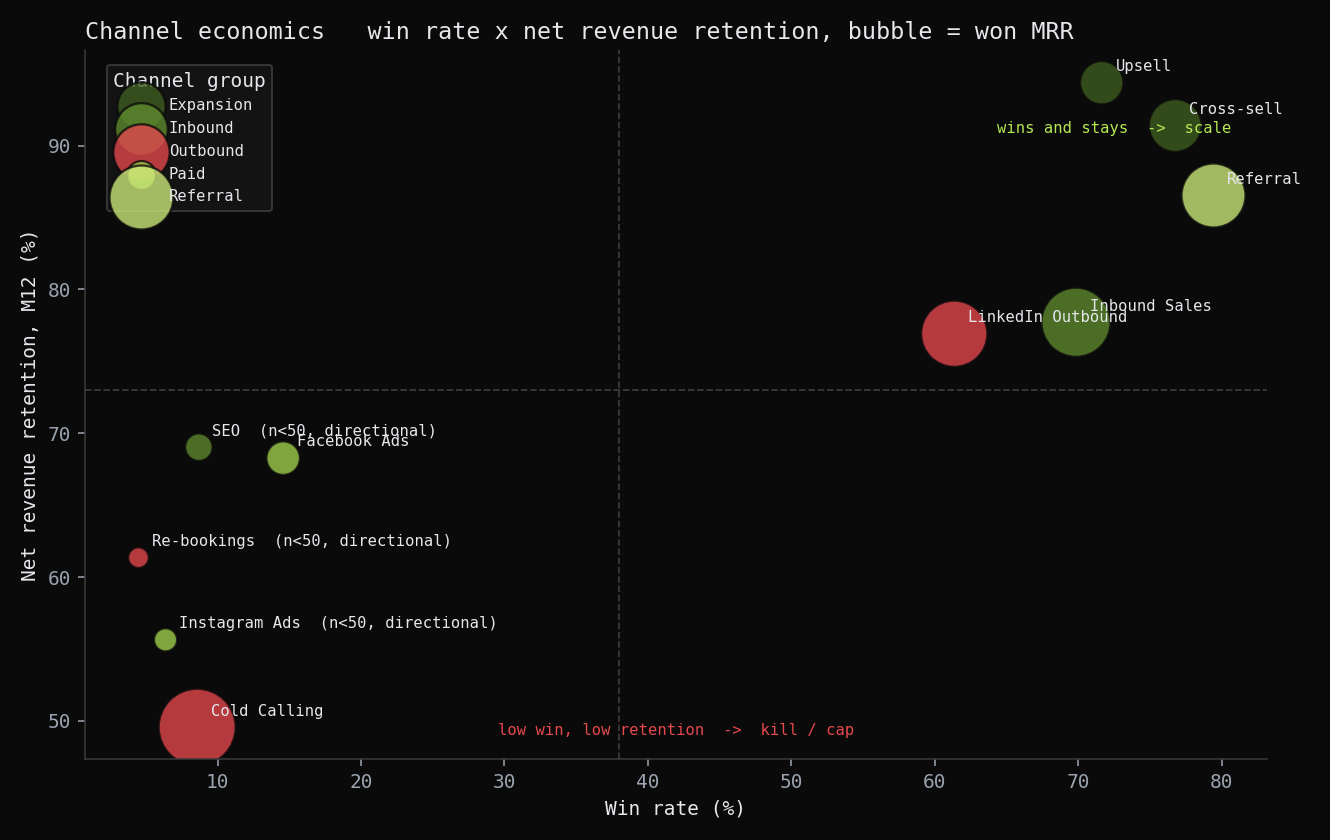
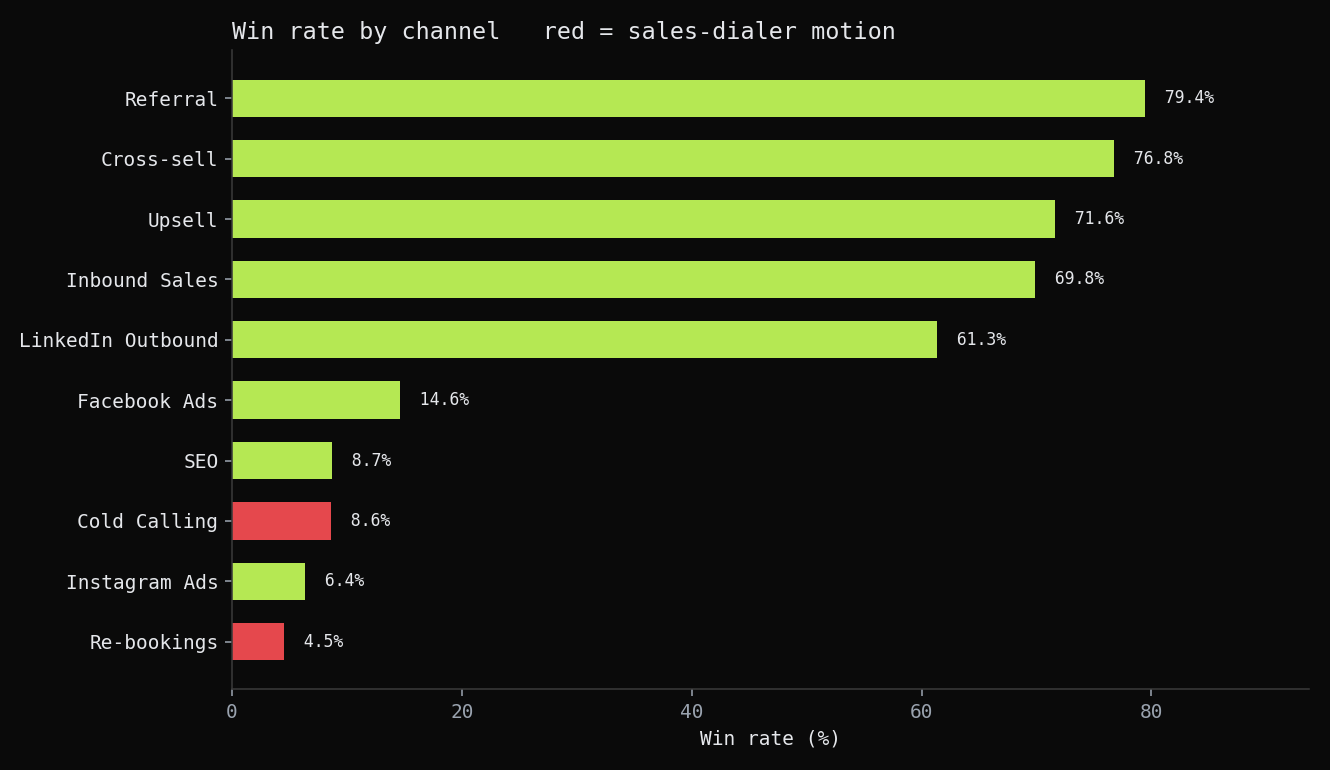
Channel Performance: all bar/line charts, longer + deeper article
Replaced the two scatter/bubble charts with ranked horizontal bars
(win rate, deal volume, net revenue retention by channel). Every
figure is now a bar or a line, dark site theme, dialer channels in
red. Article expanded to ~2,300 words with a per-finding walk-through
and the scorecard mechanics. Synthetic-generator properties are now
stated as designed-to-demonstrate-method, not observed results
(honesty review fix). Cover is the win-rate bar.

diff --git a/_projects/02-channel-performance.md b/_projects/02-channel-performance.md
@@ -12,80 +12,106 @@ github_url: https://github.com/rasmuskampmann1998/rasmus-kampmann-case-studies/t
 
 ## What this case study demonstrates
 
-A sales team ran ten acquisition channels and reported them as one blended number. The blend looked healthy. Underneath it the channels were not one thing: win rates from 4.5% to 79%, time-to-won from a week to a month, and post-sale retention from roughly 50% to 96%. The blend hid which channels earned their cost and which burned it.
+A sales team ran ten acquisition channels and reported them as one blended win rate. The blend looked healthy. Underneath it the channels were not one thing: win rates from 4.5% to 79%, time-to-won from a week to a month, and post-sale retention from roughly 50% to 96%. Averaging them hid which channels earned their cost and which burned it.
 
 This is a channel-level analysis with a post-sale axis most channel reporting skips. It asks two questions, not one: which channel wins, and whether the customers it wins stay. The figures here are synthetic, generated from a seeded model that reproduces the shape of a real Pipedrive engagement whose data cannot be published. The method is the point.
 
-Want the technical detail: the star schema, the scorecard rule, the Power BI model? See the [GitHub case study]({{ page.github_url }}).
+Want the schema, the scorecard rule, and the Power BI model: see the [GitHub case study]({{ page.github_url }}).
 
 ## Outcome first
 
-One number that reframes the whole mix: five warm channels were 21% of deals but 78% of the won revenue still active twelve months later, and they spent zero sales-dialer hours doing it.
+One number reframes the whole mix: five warm channels were 21% of deals but 78% of the won revenue still active twelve months later, and they spent zero sales-dialer hours getting it.
 
-The same analysis put cold calling, the single biggest channel, in the cap band: 60% of deals, an 8.6% win rate, 91% of all dialer hours, and about half its won customers gone within a year. The deliverable was one additive scorecard a revenue-operations lead can read in two minutes and rerun every quarter from the same tables.
+The same analysis put cold calling, the single biggest channel, in the cap band. It was 60% of all deals, won 8.6% of the time, consumed 91% of all sales-dialer hours, and kept about half its customers a year out. The deliverable was one additive scorecard a revenue-operations lead can read in two minutes and rerun every quarter from the same tables.
 
 ## Context
 
-A team selling into small businesses acquired customers through ten channels: cold calling, LinkedIn outbound, referral, inbound sales, SEO, two paid social channels, cross-sell, upsell, and a re-booking queue for prospects who cancelled a first meeting.
+A team selling into small businesses acquired customers through ten channels: cold calling, LinkedIn outbound, referral, inbound sales, SEO, two paid social channels, cross-sell, upsell, and a re-booking queue for prospects who cancelled a first meeting. Total: 7,300 deals, 1,585 of them won, $1.24M in won monthly recurring revenue.
 
-Capacity planning treated "the channel mix" as a single win rate. The scarce resource was sales-dialer time, and only two channels consumed it. Both of those were near the bottom on every quality measure, but blended reporting averaged that cost away so nobody could see it.
+Capacity planning treated "the channel mix" as a single blended win rate of 21.7%. That number was the problem. It was an average across ten channels that behaved nothing like each other, and it hid the only constraint that actually bound the team: sales-dialer time. Two channels consumed that resource. Both sat near the bottom on every quality measure, and the blend averaged the cost away so nobody could see it.
 
 ## The problem
 
-Most teams that run many channels judge them on win rate, blended. Two failures stack on top of each other.
+Most teams that run many channels judge them on win rate, blended. Two failures stack on top of each other, and the second one is the expensive one.
 
-A channel that wins deals which churn in ninety days is not a good channel. Win rate cannot see that. There was no post-sale view tied back to the channel that acquired the customer, so "good channel" meant "closes deals" and stopped there.
+The first failure is the average itself. A 21.7% blended win rate is the weighted mean of channels that close at 79% and channels that close at 4.5%. Acting on the average means under-investing in the channels that already work and protecting the ones that do not. The fix for that is simple: stop reporting the blend, report the channels.
 
-The cost side was a single shared resource. Sales-dialer hours sat almost entirely on the two channels that returned the least, and the blended report made that invisible. The question the analysis had to answer: across all ten channels, which produces the most won revenue fastest, keeps the customers it wins, and where is dialer time being spent that does not come back?
+The second failure is harder. A channel that wins deals which churn in ninety days is not a good channel, and win rate cannot see that. There was no post-sale view tied back to the channel that acquired the customer, so "good channel" meant "closes deals" and stopped at the contract signature. A channel could look strong on win rate and quietly lose most of that revenue within the year, and the existing reporting would never surface it.
+
+The cost side compounded both failures. Sales-dialer hours, the one finite resource, sat almost entirely on the two channels that returned the least, and the blended report made that invisible too.
+
+The question the analysis had to answer: across all ten channels, which produces the most won revenue fastest, keeps the customers it wins, and where is dialer time being spent that does not come back?
 
 ## The approach
 
-Channel is the unit of analysis, not the company and not the rep. Every deal is cut by the channel that acquired it, and every channel is scored on four things, because no single one is enough on its own.
+Channel is the unit of analysis, not the company and not the rep. Every deal is cut by the channel that acquired it, and every channel is scored on four things, because no single one of them is enough on its own.
 
 **Win rate** is the base rate. Necessary, not sufficient: a channel can win often and still lose money if those wins leave.
 
-**Dialer cost** is the scarce resource. The real efficiency question is won revenue returned per dialer hour, and it only matters for the two channels that spend the resource.
+**Dialer cost** is the scarce resource. The right efficiency question is won revenue returned per dialer hour, and it only matters for the two channels that spend the resource. Everything else returns revenue at zero dialer cost, which is itself the finding.
 
-**Time-to-won** is a cost in disguise. A channel that closes in a week frees capacity a channel that takes a month does not.
+**Time-to-won** is a cost in disguise. A channel that closes in a week frees a rep's capacity that a channel taking a month does not. Speed compounds: the faster channel can be worked more times in the same quarter.
 
-**Retention** is the post-sale axis: share of won customers still active at twelve months, and net revenue retention, both tied back to the acquiring channel. This is the half of the picture win rate cannot show, and it is what changed the verdict.
+**Retention** is the post-sale axis, and it is the one that changed the verdict. Share of won customers still active at twelve months, and net revenue retention, both tied back to the acquiring channel. This is the half of the picture win rate cannot show.
 
-These four collapse into one additive score, then into four action bands. The score is a rule, not a model, deliberately, so a non-technical operator can audit every point it assigns and rebuild it next quarter from the dimensional tables.
+These four collapse into one additive score, then into four action bands: scale, maintain, cap, kill. The score is a rule, not a model, deliberately. A model would be more precise and less useful here, because nobody on the revenue team could audit it or rebuild it next quarter. Every point the rule assigns is traceable to a number in the dimensional tables, and a verification step recomputes the whole thing from the data so the scorecard and the rule that produced it cannot drift apart.
 
-## The build
+## The findings
 
-**A star schema, channel-first.** One fact table for deals, one for acquisition touches, one for meetings, joined to seven dimensions, with channel as the primary axis. The deal fact carries the close outcome, the sales-dialer hours attributed to it, and a post-won lifecycle: whether the customer churned, how many months they stayed, and the revenue that left when they did. Single-direction relationships, one row per deal, no double counting from the meeting grain. It reproduces from a seeded generator with no private data.
+**Win rate splits the channels into two populations, and the biggest one is in the wrong half.**
 
-**A scorecard that reproduces its own bands.** Each channel scores on the four factors and lands in scale, maintain, cap, or kill. The rule is not asserted over the data; a verification step recomputes every channel's score and band straight from the tables, so the numbers in the deck and the rule that produced them cannot drift apart. The retention factor is a non-negative bonus by design: win rate and dialer cost already separate the channels, and retention should confirm that split rather than be able to flip a band on its own.
+![Win rate by channel]({{ '/assets/images/projects/channel-performance-winrate.png' | relative_url }})
+*Win rate per channel, sorted, sales-dialer channels in red. There is no gradient here, there is a cliff. Referral, cross-sell, upsell, inbound, and LinkedIn all clear 61%. Everything else is under 15%. Cold calling, the channel that books the most deals, sits at 8.6%, third from the bottom.*
 
-**A four-page Power BI model.** Twenty measures on the star schema. The retention measures read the post-won columns directly and never traverse an inactive relationship, which is a class of filter-context bug that file validation cannot catch. Every visual is a bar, a line on a genuinely ordered axis, a card, or a matrix. No chart that does not carry information.
+The win-rate chart is the case for abandoning the blend in one image. The channels do not sit on a smooth curve from good to bad. They form two clusters with nothing in between: five warm channels above 61%, five channels below 15%. A blended average of those two populations describes none of them. Cold calling at 8.6% is not "a bit below average", it is in the bottom cluster, and it is the largest channel the team runs.
 
-![Channel economics: win rate against net revenue retention]({{ '/assets/images/projects/channel-performance-economics.png' | relative_url }})
-*The whole argument in one chart. Win rate on the x-axis, net revenue retention on the y, bubble sized by won revenue. The warm channels cluster top-right: they win and they stay. Cold calling is the large red bubble bottom-left, real revenue but a low win rate and half of it gone within a year.*
+**Volume is concentrated exactly where win rate is weakest.**
 
-![Logo survival by channel group, months zero to twelve]({{ '/assets/images/projects/channel-performance-retention-curve.png' | relative_url }})
-*Do the wins stay? Share of won customers still active by month since the deal closed. Expansion holds near the top across twelve months. The outbound dialer line is the one that bleeds. The x-axis is months retained, a real ordered axis, which is why a line is honest here.*
+![Deal volume by channel]({{ '/assets/images/projects/channel-performance-volume.png' | relative_url }})
+*Deals created per channel. Cold calling is roughly ten times the next-biggest channel. The single bar that dominates the volume chart is the same channel sitting third from the bottom on win rate.*
 
-![Win rate against deal volume by channel]({{ '/assets/images/projects/channel-performance-winrate-volume.png' | relative_url }})
-*Win rate against deal volume, bubble sized by won revenue. The largest channel by volume sits near the bottom on win rate. The axis is linear, so cold calling's volume dominance is shown plainly rather than hidden behind a log scale.*
+Put the two bar charts next to each other and the structural problem is obvious. The channel with the most deals has nearly the worst win rate. The team's capacity was being spent in proportion to volume, and volume was inversely related to quality. This is the dilution trap: a high-volume, low-conversion channel makes the pipeline look busy and the blended number look stable while consuming the capacity that the high-conversion channels needed.
 
-## The outcome
+**Retention is a second, independent axis, and it punishes the same channels again.**
 
-The bands, with coverage recomputed from the data:
+![Net revenue retention by channel]({{ '/assets/images/projects/channel-performance-nrr.png' | relative_url }})
+*Net revenue retention at twelve months, per channel. Expansion and referral channels keep 87% to 94% of the revenue they win. Cold calling keeps 50%. The dialer channels are red, at the bottom, again.*
 
-- **Scale** (LinkedIn, referral, inbound, cross-sell, upsell): 21% of deals, 69% of won revenue, 78% of revenue that survived the first year, 83% retained at twelve months, zero dialer cost.
+This is the chart the original reporting could not produce. Win rate stops at the signature; this starts there. Cold calling wins less often and then loses half of what it does win within a year. Its 23.5% share of won revenue shrinks to 15.7% once churn is taken out. The warm channels are the mirror image: they win more often and the revenue stays. Win rate and retention rank the channels in nearly the same order. On a real dataset, two independent measures agreeing is what tells you the conclusion is not a single-metric artefact; in this synthetic version the agreement is built into the model, so the thing to take from it is the method of checking one axis against a second, not the figures themselves.
+
+**The wins that stay, stay from day one.**
+
+![Logo survival by channel group]({{ '/assets/images/projects/channel-performance-retention-curve.png' | relative_url }})
+*Share of won customers still active by month since the deal closed, grouped by channel type. The x-axis is months retained, a real ordered axis. Expansion holds near the top across all twelve months. The outbound dialer line bleeds from the first month and never recovers.*
+
+The survival curve shows the retention gap is not a late-life cliff that better onboarding could fix. The outbound line separates from the others in month one and the gap only widens. When churn starts that early and never recovers, the reading is that the channel is selecting weaker-fit customers rather than serving the same customers worse, which is the difference between "improve retention on this channel" and "stop scaling this channel". On a real dataset that distinction is what the survival shape would tell you; here the shape is generated to demonstrate the method, so treat the conclusion as the method, not as an observed result.
+
+**Speed tells the same story a third time.**
+
+![Time to won by channel]({{ '/assets/images/projects/channel-performance-time-to-won.png' | relative_url }})
+*Median and 90th-percentile days from first touch to won, per channel. Expansion closes in under a week at the median. Cold calling takes 20 days, re-bookings 31, with long tails behind both.*
+
+Every axis points the same way. The channels that win more and retain more also close faster, which means they return capacity to the team sooner and can be worked again within the quarter. The channels that win least and churn most are also the slowest, so the same dialer hour buys fewer attempts. There is no axis on which the dialer channels are the better investment.
+
+## The deliverable
+
+The four factors collapse into one additive scorecard. Each channel earns points on win rate, dialer cost, time-to-won, and twelve-month retention, and the total drops it into one of four bands.
+
+- **Scale** (LinkedIn, referral, inbound, cross-sell, upsell): 21% of deals, 69% of won revenue, **78% of the revenue that survived the first year**, 83% retained at twelve months, zero dialer cost. Move budget and capacity here first.
 - **Maintain** (Facebook, SEO, Instagram): 14% of deals, 7% of won revenue, mid retention. Hold spend, no new investment.
-- **Cap** (cold calling): 60% of deals, 23.5% of won revenue that shrinks to 15.7% once churn is taken out, 91% of dialer hours, 51% retained. It still books real volume, so freeze it, do not grow it.
-- **Kill** (re-bookings): a 4.5% win rate. Stop it as a standalone motion and fold confirmed reschedules back into the source channel.
+- **Cap** (cold calling): 60% of deals, 23.5% of won revenue that shrinks to 15.7% net of churn, 91% of dialer hours, 51% retained. It still books real volume, so the call is freeze it, do not grow it. Capping, not killing, because the volume is real even though the quality is not.
+- **Kill** (re-bookings): a 4.5% win rate on 312 deals. Stop it as a standalone motion and fold confirmed reschedules back into the channel that originally booked the meeting.
 
-The recommendation was concrete: move a third of cold-call dialer hours to the warm follow-up motions, retire the standalone re-booking queue, and rerun the scorecard monthly from the same tables.
+The retention factor is a non-negative bonus by design, not a penalty. Win rate and dialer cost already separate the channels cleanly; retention is there to confirm that split, not to be powerful enough to flip a band on its own. That keeps the rule honest: it cannot be gamed by one strong quarter on a single axis, and a revenue lead can defend every band assignment by pointing at the underlying numbers.
+
+The recommendation was concrete. Move a third of cold-call dialer hours to the warm follow-up motions. Retire the standalone re-booking queue. Rerun the scorecard monthly from the same tables so the bands track reality instead of last quarter's assumptions.
 
 ## What I'd do differently
 
-The first pass had no post-sale axis at all. The word "churn" was in the write-up, but it was standing in for "low win rate", which is not churn. A channel that wins and then loses the customer in two months is a different and worse problem than a channel that wins less often, and the analysis could not tell them apart until retention went in. Adding it changed which channels looked safe. I should have built the post-sale view from the start instead of treating win rate as the whole story.
+The first pass had no post-sale axis at all. The word "churn" was in the write-up, but it was standing in for "low win rate", which is not churn. A channel that wins and then loses the customer in two months is a different and worse problem than a channel that wins less often, and the analysis could not tell them apart until retention went in. Adding it changed which channels looked safe. A channel can clear a respectable win rate and still belong in the cap band once you can see what happens after the signature. I should have built the post-sale view from the start instead of treating the contract as the finish line.
 
-The smallest channel, re-bookings, has only fourteen won customers. Its retention number is too thin to lean on, so the kill verdict rests on its win rate over 312 deals, not on the fourteen-row retention figure, and it is flagged as small-sample everywhere it appears. A real engagement would run longer to get that channel a sample worth a recommendation.
+The smallest channel, re-bookings, has only fourteen won customers. Its retention number is too thin to carry a recommendation, so the kill verdict rests on its 4.5% win rate over 312 deals, not on the fourteen-row retention figure, and it is flagged as small-sample everywhere it appears. A real engagement would run the window longer to give that channel a sample worth a decision rather than a direction.
 
 ## Tools
 
-Python with pandas and numpy for the analysis and the verification step. SQL for the schema and the analytical queries, cross-checked in DuckDB. Power BI on a PBIP/TMDL project for the dashboard, validated headless with pbi-cli. The whole thing reproduces from one script with no real client data.
+Python with pandas and numpy for the analysis and the verification step. SQL for the schema and the analytical queries, cross-checked in DuckDB. Power BI on a PBIP/TMDL project for the dashboard, validated headless with pbi-cli. Every chart is a bar or a line, one comparison grammar, no second encoding to decode. The whole thing reproduces from one script with no real client data.
